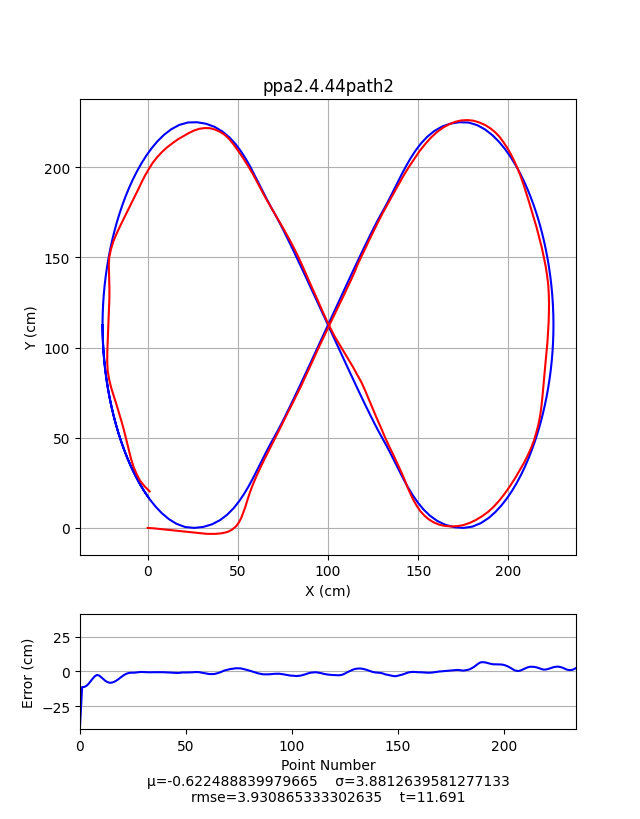
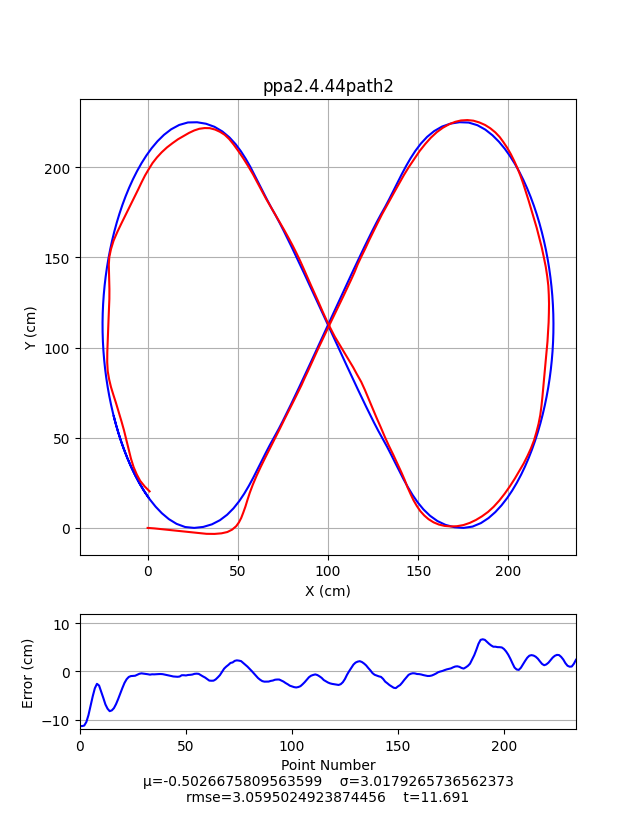
remove waypoints from beginning of path2 that were increasing error

diff --git a/scripts/dataAnalyzer.py b/scripts/dataAnalyzer.py
@@ -57,8 +57,8 @@ for telemNum in range(1,len(sys.argv)):
 
     pathId = str(sys.argv[telemNum])[-5]
 
-    #path = csvToColumns('paths/refPath' + str(pathId) + '.csv')
-    path = csvToColumns('paths/ftp' + str(pathId) + '.csv')
+    path = csvToColumns('paths/refPath' + str(pathId) + '.csv')
+    #path = csvToColumns('paths/ftp' + str(pathId) + '.csv')
 
     robotFull = csvToColumns(str(sys.argv[telemNum]))
 

diff --git a/code/src/main.cpp b/code/src/main.cpp
@@ -152,7 +152,7 @@ void opcontrol() {
 	);
 */
 
-  auto pathFile = std::make_shared<kappa::BinFileInput<double,4>>("/usd/paths/ftp3");
+  auto pathFile = std::make_shared<kappa::BinFileInput<double,4>>("/usd/paths/path1.4");
 
 /*
 	pros::Task odomTask2([&]{
